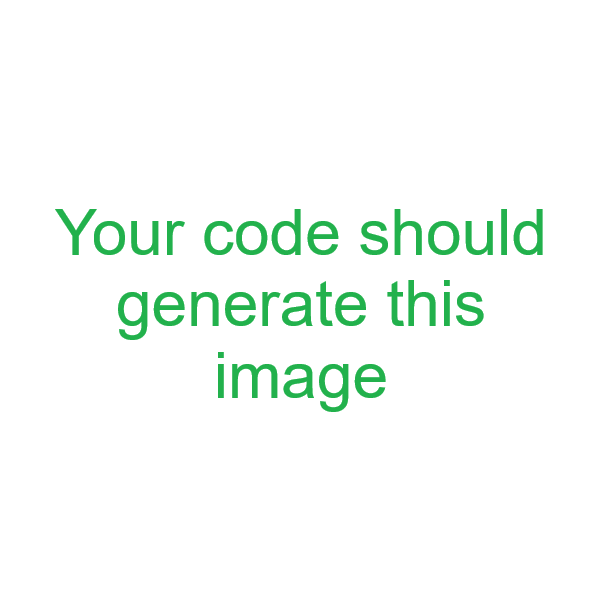
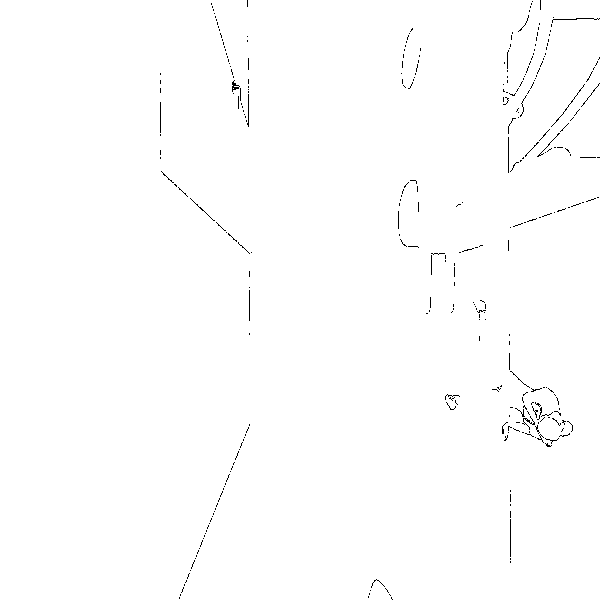
Save local map and scripts

diff --git a/map_maker.py b/map_maker.py
@@ -6,32 +6,51 @@ import os
 output_dir = "controllers/proposed_solution/sim_logs"
 os.makedirs(output_dir, exist_ok=True)
 
-# 1. Load the Drone Video
-video_path = "recordings/large_world_flyover.mp4"
-cap = cv2.VideoCapture(video_path)
+# 1. Open the video using the absolute path
+absolute_path = os.path.abspath("recordings/large_world_flyover.mp4")
+cap = cv2.VideoCapture(absolute_path)
 
 if not cap.isOpened():
-    print("CRITICAL ERROR: Cannot open video. Did Git LFS download the mp4 correctly?")
+    print("CRITICAL ERROR: Cannot open video.")
     exit()
 
-# 2. Extract a High-Altitude Frame
-# We don't want to process the whole video. We just want one frame from the middle 
-# where the drone is high up and can see the maze.
-total_frames = int(cap.get(cv2.CAP_PROP_FRAME_COUNT))
-middle_frame = total_frames // 2
-
-# Fast-forward the video to the middle frame
-cap.set(cv2.CAP_PROP_POS_FRAMES, middle_frame)
+# 2. Jump straight to our winning takeoff frame (Frame 90)
+winning_frame_number = 500
+cap.set(cv2.CAP_PROP_POS_FRAMES, winning_frame_number)
 success, frame = cap.read()
 
 if not success:
-    print("CRITICAL ERROR: Could not read frame.")
+    print("CRITICAL ERROR: Could not read winning frame.")
     exit()
 
-print("Mission Control: Video loaded and frame extracted successfully.")
+print(f"Mission Control: Locked onto takeoff frame {winning_frame_number}.")
 
-# Save the raw frame just so you can look at it and verify the drone is high enough
-cv2.imwrite("test_raw_frame.png", frame)
-print("Saved test_raw_frame.png to your folder. Open it and check the view.")
+# 3. Process the Map for the Marking Server
+# Convert to grayscale
+gray = cv2.cvtColor(frame, cv2.COLOR_BGR2GRAY)
+
+# Run Canny Edge Detection to outline the walls
+edges = cv2.Canny(gray, 50, 150)
+
+# Invert colors so walls are white and background is black temporarily
+inverted_edges = cv2.bitwise_not(edges)
+
+# Resize strictly to the judges' required 600x600 dimensions
+resized_map = cv2.resize(inverted_edges, (600, 600))
+
+# --- STRICT COLOR ENFORCEMENT ---
+# The rules state: Black (0,0,0) for walls, White (255,255,255) for free space. No gray pixels allowed!
+# We use a threshold to force every single pixel to be pure 0 or pure 255.
+_, final_map = cv2.threshold(resized_map, 200, 255, cv2.THRESH_BINARY)
+
+# 4. Save the map directly to the strict required path
+map_output_path = os.path.join(output_dir, "map_estimate.png")
+cv2.imwrite(map_output_path, final_map)
+
+print(f"SUCCESS: Strictly formatted 600x600 map saved to {map_output_path}!")
+# Verify dimensions before finishing
+
+height, width = final_map.shape
+print(f"VERIFICATION: Final map dimensions are {width}x{height}")
 
 cap.release()
